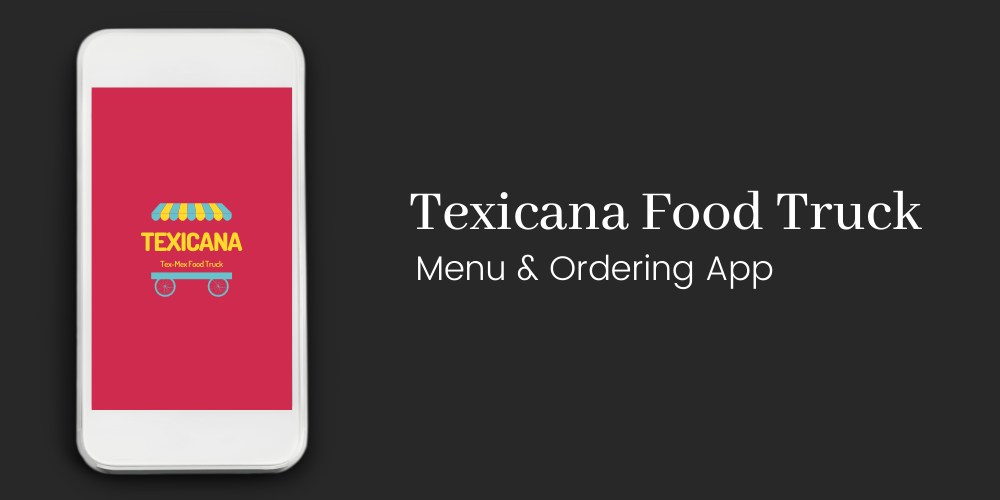
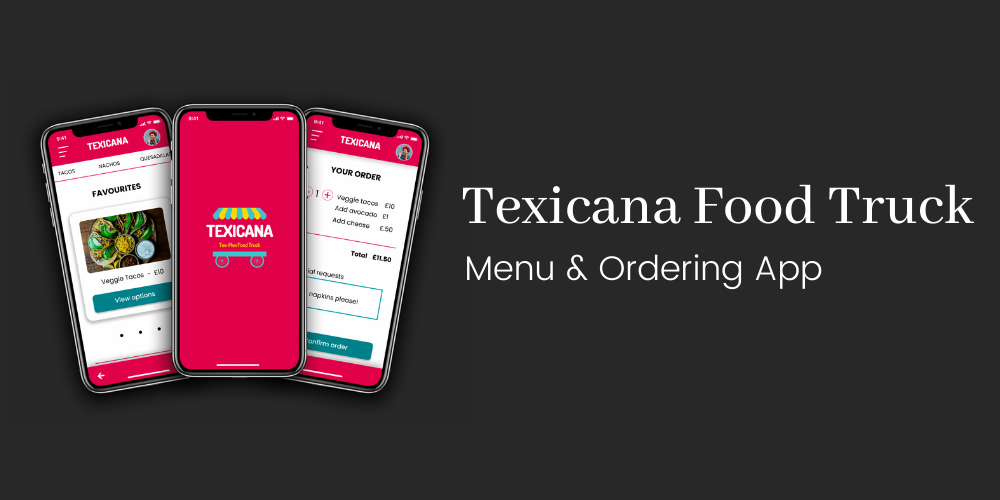
updates

Changed region(s): [[0.031, 0.03, 0.992, 0.96]]

diff --git a/texicana.html b/texicana.html
@@ -21,7 +21,7 @@
         <link rel="icon" href="favicon1.ico">
         <!-- Google Fonts link -->
         <link rel="preconnect" href="https://fonts.gstatic.com">
-        <link href="https://fonts.googleapis.com/css2?family=Poppins:ital,wght@0,100;0,200;0,300;0,400;0,500;0,600;0,700;1,100&family=Shadows+Into+Light&display=swap" rel="stylesheet">
+        <link href="https://fonts.googleapis.com/css2?family=Poppins:ital,wght@0,100;0,200;0,300;0,400;0,500;0,600;0,700;1,100&family=Shadows+Into+Light&family=Dosis:wght@800&display=swap" rel="stylesheet">
         <!-- Font Awesome -->
         <script src="https://kit.fontawesome.com/1c9ad4b785.js" crossorigin="anonymous"></script>
     </head>
@@ -53,8 +53,12 @@
     </header> 
 
     <body>
-        <div class="container-fluid tex-hero-img">
-            <img src="images/texhero.png" alt="Texicana-mockups">
+        <div class="row container-fluid tex-hero-img">
+            <img class="col-6 texicana-mockups" src="images/texhero1.png" alt="Texicana-mockups">
+            <div class="col-6 texicana-heading container-fluid">
+            <h1 class="white texicana-title">TEXICANA</h1>
+            <h2 class="white texicana-subtitle">Menu and Ordering App</h2>
+            </div>
         </div>
         <div class="container-fluid">
             <h1 id="typeitTexicana" class="typeit-texicana"></h1>

diff --git a/style.css b/style.css
@@ -130,7 +130,7 @@ a.outline-link {
 
 /* Work section */
 .work {
-    padding: 0 20%;
+    padding: 2% 20% 0;
     
 }
 
@@ -159,7 +159,6 @@ footer {
 }
 
 .white {
-    padding: 30px 20px 20px;
     color: white;
 }
 
@@ -169,6 +168,7 @@ footer {
 
 .contact {
     font-size: 1.3rem;
+    padding: 2%;
 }
 
 .email {
@@ -177,6 +177,10 @@ footer {
 
 .email:hover {
     color: white;
+}
+
+.icon {
+    padding: 30px 20px 20px;
 }
 
 .icon:hover {
@@ -256,10 +260,32 @@ footer {
 
  /* Texicana Case Study page */
  .tex-hero-img {
-     padding: 5% 20% 0;
+     background-color: #292828;
+     text-align: center;
+     margin: 5% 0 0;
  }
 
- h1.typeit-texicana {
+ .texicana-mockups {
+     width: 50%; 
+     padding-left: 5%; 
+ }
+
+ .texicana-heading {
+     padding: 12% 0 0 7%;
+     text-align: left;
+ }
+
+ .texicana-title {
+     font-family: 'Dosis', sans-serif;
+ }
+
+ .texicana-subtitle {
+     font-weight: 200;
+     font-size: 1.5rem;
+     padding-left: 2%;
+ }
+
+.typeit-texicana {
      font-size: 2rem;
      padding: 5% 10% 5% 20%;
  }
